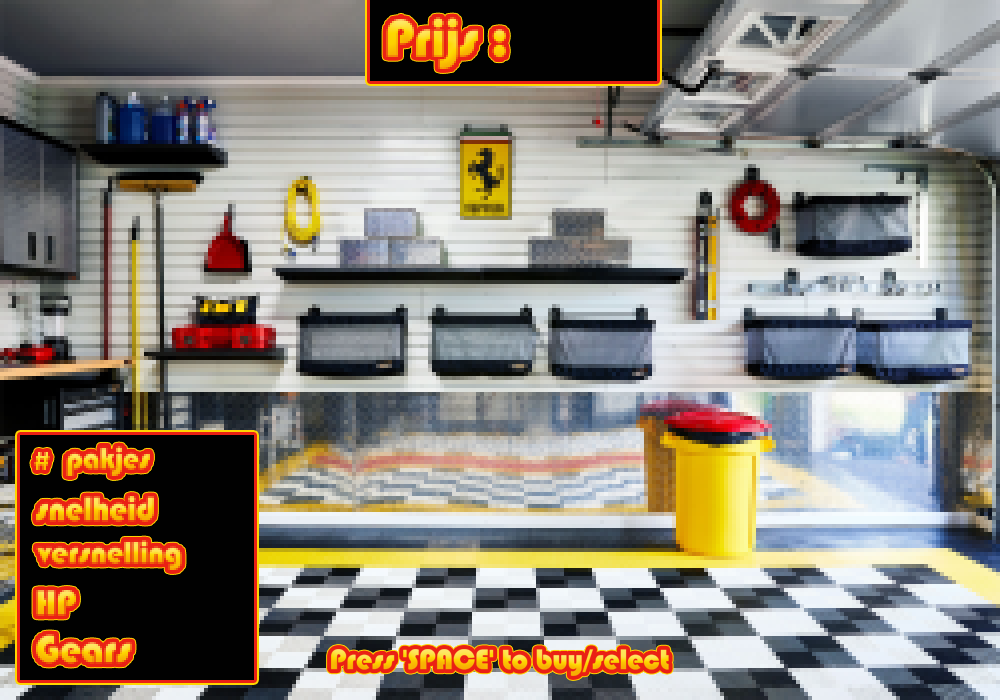
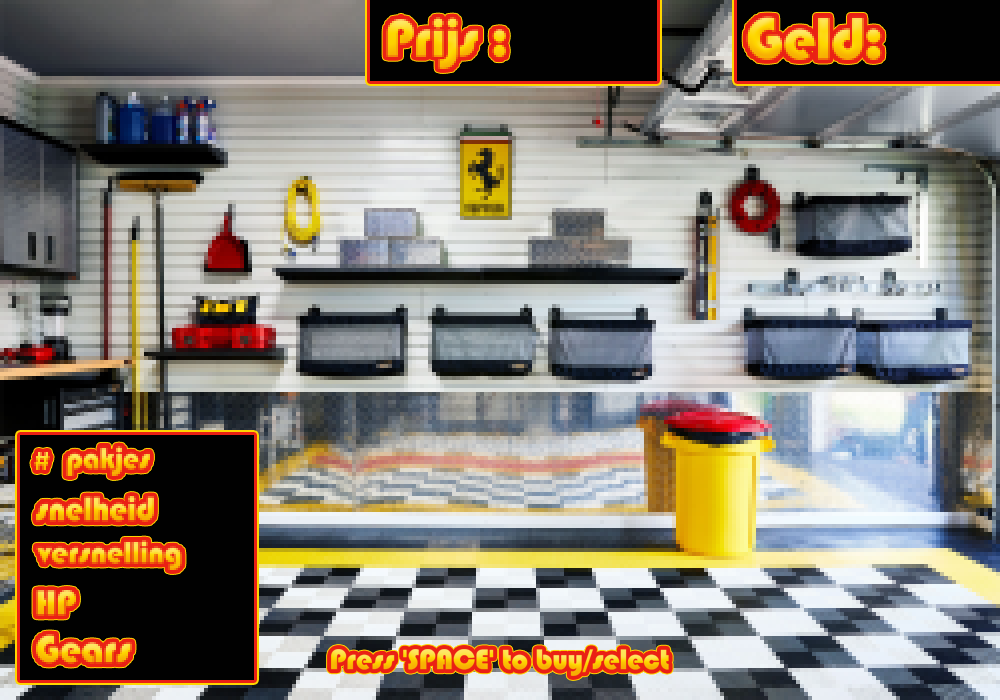
update garagemenu, ook proberen toevoegen dat auto verandert maar lukt niet

Changed region(s): [[0.713, 0.0, 1.0, 0.12]]

diff --git a/IB2.py b/IB2.py
@@ -51,13 +51,15 @@ POSITIE_GARAGE = [
     [163, 495],  # 2: snelheid
     [190, 540],  # 3: versnelling
     [85, 588],  # 4: HP
-    [145, 635]  # 5: Gears
+    [145, 635],  # 5: Gears
+    [900, 24]  # 6: Geld
 ]
 #
 # Globale variabelen
 #
 game_state = 0  # 0: main menu, 1: settings menu, 2: game actief, 3: garage, 4: kantoor
 prijzen = [0, 200]
+lijst_autos = []
 balkje_tijd = 0
 pakjes_aantal = 0
 sound = True
@@ -169,7 +171,7 @@ def verwerk_input(delta, events=0):
     global moet_afsluiten, index, world_map, game_state, main_menu_index, settings_menu_index, volume, sensitivity
     global sensitivity_rw, paused, pauze_index, sprites, show_map, map_positie
     global afstand_map, quiting, game_over, game_over_index, money,highscore,pakjes_aantal, garage_index
-    global selected_car, gekocht, prijzen
+    global selected_car, gekocht, prijzen, lijst_autos
 
     move_speed = delta * 2
     if speler.in_auto:
@@ -412,16 +414,17 @@ def verwerk_input(delta, events=0):
                 if key == sdl2.SDLK_SPACE:
                     if garage_index in gekocht:
                         selected_car = garage_index
+                        speler.car = lijst_autos[selected_car]
                         muziek_spelen("main menu select", channel=7)
                     else:
                         if money-prijzen[garage_index] >= 0:
                             money -= prijzen[garage_index]
                             muziek_spelen("cash register", channel=7)
                             selected_car = garage_index
+                            speler.car = lijst_autos[selected_car]
                             gekocht.append(garage_index)
                             config.set("gameplay", "money", f"{money}")
                             gekocht_str = "".join(f"{i} " for i in gekocht)
-                            print(gekocht_str)
                             config.set("gameplay", "gekocht", gekocht_str)
                         else:
                             muziek_spelen("fail", channel=7)
@@ -536,6 +539,7 @@ def handen_sprite(renderer, handen_doos):
 def garage(renderer, font, index, garage_menu, rode_autos, humvee):
     global garage_index
     # info: (prijs, #pakjes, snelheid, versnelling, HP, Gears)
+    auto = []
     info = (0, 0, 0, 0, 0, 0)
     if garage_index == 0:
         auto = rode_autos
@@ -544,6 +548,7 @@ def garage(renderer, font, index, garage_menu, rode_autos, humvee):
         auto = humvee
         info = (200, 5, 5, 5, 5, 5)
     image = auto[math.floor(index)]
+    money_txt = sdl2.ext.renderer.Texture(renderer, font.render_text(f"{money}"))
     prijs = sdl2.ext.renderer.Texture(renderer, font.render_text(f"{info[0]}"))
     pakjes = sdl2.ext.renderer.Texture(renderer, font.render_text(f"{info[1]}"))
     snelheid = sdl2.ext.renderer.Texture(renderer, font.render_text(f"{info[2]}"))
@@ -569,8 +574,8 @@ def garage(renderer, font, index, garage_menu, rode_autos, humvee):
                   dstrect=(POSITIE_GARAGE[4][0], POSITIE_GARAGE[4][1], hp.size[0], hp.size[1]))
     renderer.copy(gears,
                   dstrect=(POSITIE_GARAGE[5][0], POSITIE_GARAGE[5][1], gears.size[0], gears.size[1]))
-    print(selected_car)
-    print(gekocht)
+    renderer.copy(money_txt,
+                  dstrect=(POSITIE_GARAGE[6][0], POSITIE_GARAGE[6][1], money_txt.size[0], money_txt.size[1]))
 
 
 def render_sprites(renderer, sprites, player, d, delta, update):
@@ -1005,7 +1010,7 @@ def quit(button, event):
 def main(inf_world, shared_world_map, shared_pad, shared_eindbestemming, shared_spelerpositie):
     global game_state, BREEDTE, volume, sensitivity_rw, sensitivity, world_map, kleuren_textures, sprites, map_positie
     global eindbestemming, paused, show_map, quiting, lijst_mogelijke_bestemmingen, sprites_bomen, sprites_autos
-    global balkje_tijd, pakjes_aantal, game_over, kantoor_sprites, starting_game, money, highscore
+    global balkje_tijd, pakjes_aantal, game_over, kantoor_sprites, starting_game, money, highscore, lijst_autos
     map_positie = [50, world_map.shape[0] - 50]
     world_map = shared_world_map
     # Initialiseer de SDL2 bibliotheek
@@ -1113,7 +1118,8 @@ def main(inf_world, shared_world_map, shared_pad, shared_eindbestemming, shared_
 
     kleuren_autos = [rode_autos, groene_autos, witte_autos, grijze_autos]
     # Eerste Auto aanmaken
-    auto = PostBus(tree, blauwe_autos, map_auto, 452, 440, HOOGTE, type=0, hp=10, schaal=0.4)
+    lijst_autos = [PostBus(tree, blauwe_autos, map_auto, 452, 440, HOOGTE, type=0, hp=10, schaal=0.4), PostBus(tree, humvee, map_auto, 452, 440, HOOGTE, type=0, hp=10, schaal=0.4)]
+    auto = lijst_autos[selected_car]
     auto.draai_sprites(125)
     speler.car = auto
     sprites_autos.append(auto)
